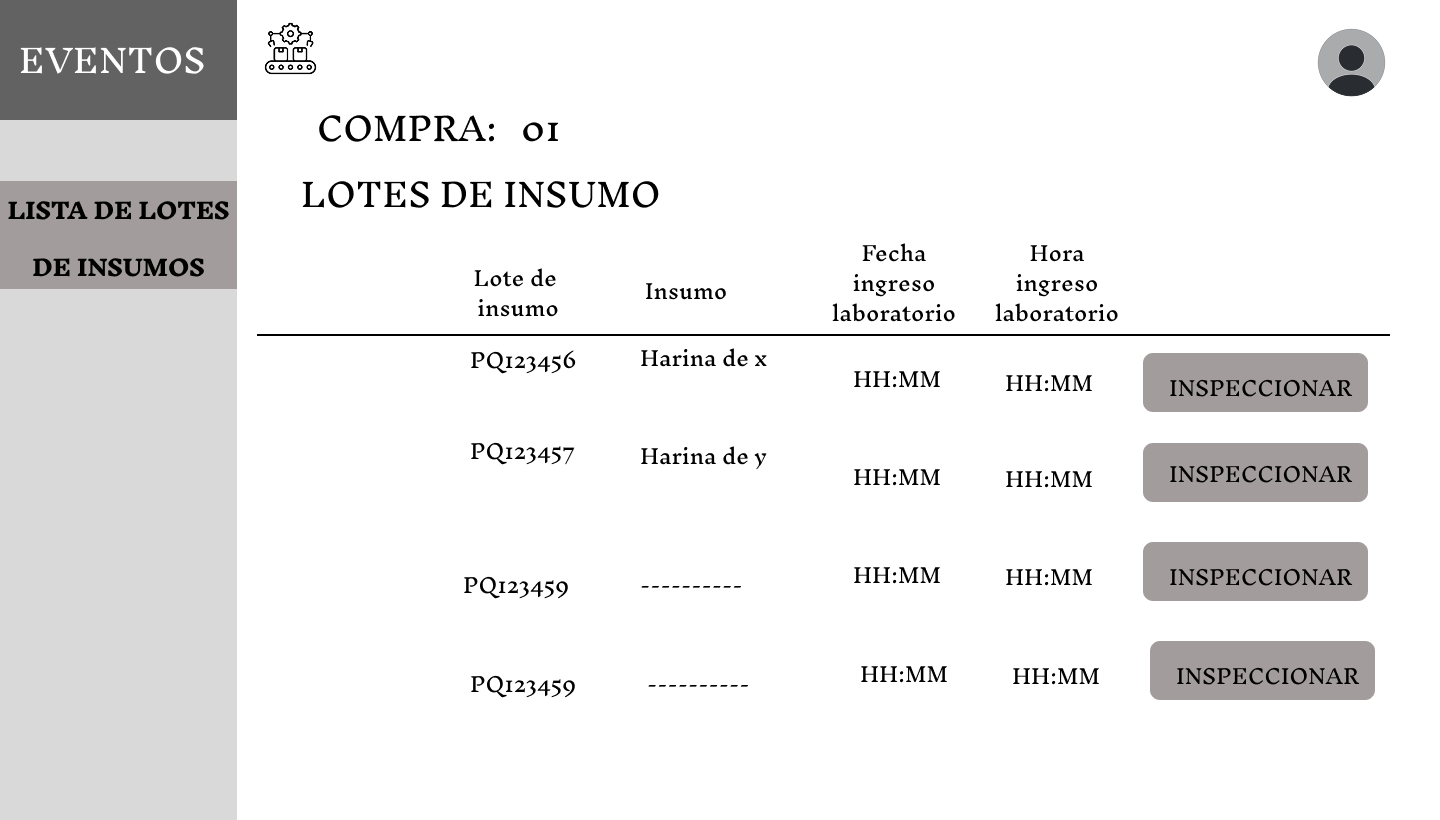
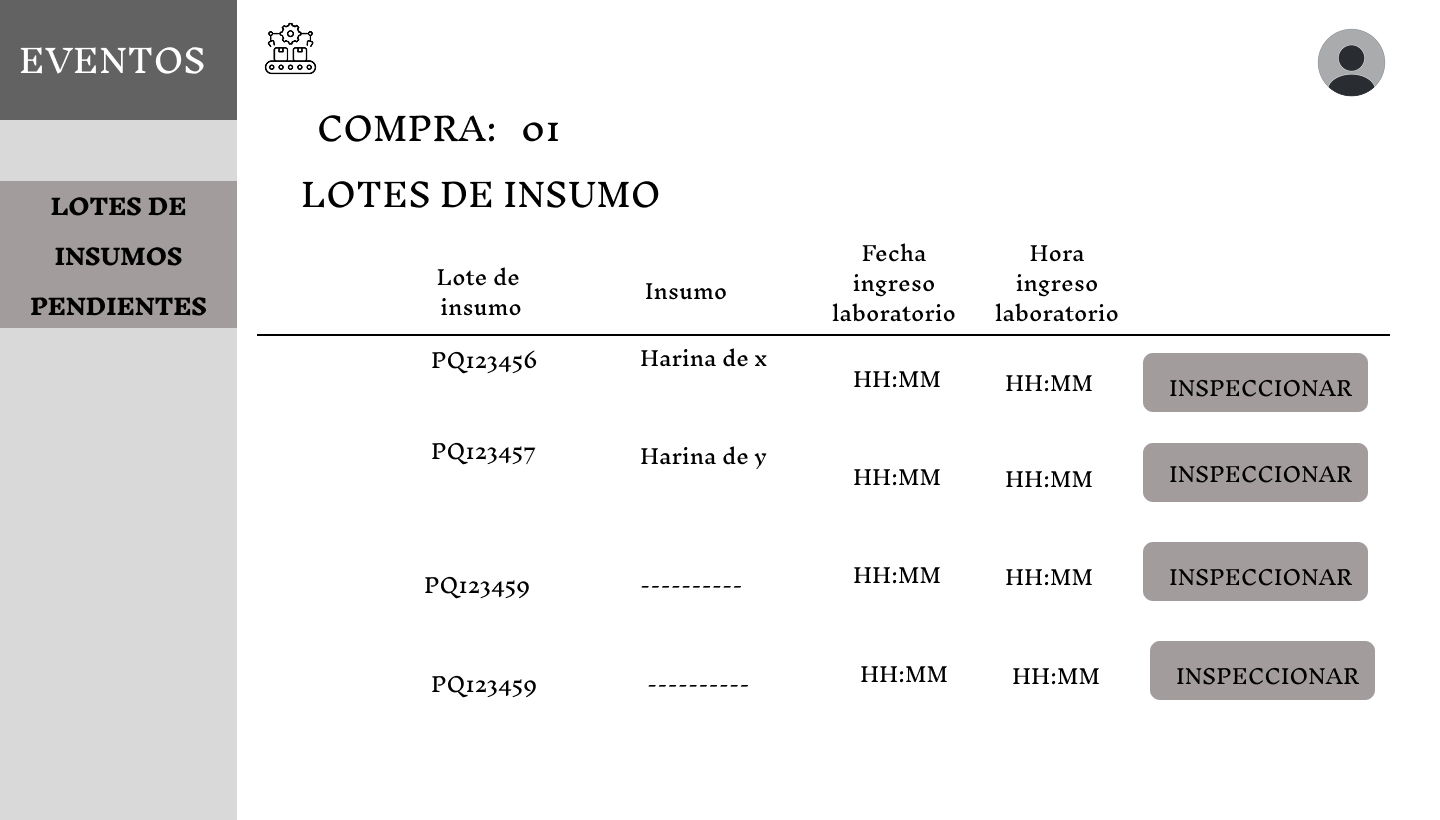
Cambios 2 (Módulo-Calidad)

diff --git a/3/3.3/3.3.md b/3/3.3/3.3.md
@@ -5,7 +5,7 @@
 | **ID**               | CU-01                                                                   |
 |----------------------|-------------------------------------------------------------------------|
 | **Actor(es)**        | Inspector de Calidad                                         |
-| **Descripción**      | Registrar la llegada de un lote de insumo al laboratorio para que pueda ser inspeccionado posteriormente.         |
+| **Descripción**      | Permite registrar el ingreso de un lote de insumo al laboratorio para dar inicio al control de calidad       |
 | **Precondiciones**   | 1. La compra debe estar registrada. <br> 2. El lote debe haber llegado físicamente al laboratorio.        |
 | **Flujo Principal**  | 1. El inspector accede a la pantalla “Lotes Pendientes de Registro en Calidad”. <br> 2. Selecciona el lote de insumo recibido.  <br> 3. Ingresa la Fecha y Hora de ingreso al laboratorio. <br> 4. Confirma el registro.
 | **Requerimientos Especiales** | Los datos de compra deben estar sincronizados con el módulo de compras.    |
@@ -41,27 +41,9 @@
 4. Registrar el resultado: Aprobado o Rechazado, con comentarios y adjuntos.
 5. Confirmar y guardar inspección.
 ![Inspección de Lote de insumo](Prototipos/Inspeccionar_lote_insumo.png)
+6. El sistema actualiza automáticamente el estado del lote (Aprobado/Rechazado) y recalcula el estado de la compra asociada según el total de lotes.
 
-## **Caso de uso #3: Visualizar Lotes Inspeccionados (Revisados)**
-
-| **ID**               | CU-03                                                                   |
-|----------------------|-------------------------------------------------------------------------|
-| **Actor(es)**        | Inspector de Calidad                                       |
-| **Descripción**      | Consultar el estado y detalle de los lotes de insumo ya inspeccionados (revisados).          |
-| **Precondiciones**   | Deben existir inspecciones ya registradas.   |
-| **Flujo Principal**  | 1. Acceder a la pantalla “Lotes Revisados”.  <br> 2. Visualizar tabla con información del lote de insumo inspeccionado  <br> 3. Hacer click en [Ver detalle] para ver información adicional.   |
-| **Requerimientos Especiales** | Ver historial consolidado por compra. |
-| **Frecuencia de Uso**| Cada vez que se desea ver la trazabilidad de los estados del lote de insumo        |
-
-### **Flujo Principal:**
-1. Acceder a la pantalla “Lotes Revisados”.
-2. Visualizar tabla con información del lote de insumo inspeccionado
-3. Hacer click en [Ver detalle] para ver información adicional.
-![Inspección de Lote de insumo](Prototipos/Lista_lotes_insumo_revisados.png)
-
-
-
-## **Caso de uso #4: Inspeccionar Proceso Productivo por Etapa (Mezclado, Moldeado y Secado)**
+## **Caso de uso #3: Inspeccionar Proceso Productivo por Etapa (Mezclado, Moldeado y Secado)**
 
 | **ID**               | CU-03                                                                   |
 |----------------------|-------------------------------------------------------------------------|
@@ -82,7 +64,7 @@
 5. Registrar: ID Inspector, Estado, Tipo de fallo, Cantidad perdida, Comentarios, Adjuntos.
 ![Inspección de Proceso por Lote de Producto](Prototipos/Inspeccionar_proceso_lote_producto.png)
 
-## **Caso de uso #5: Inspeccionar Etapa de Envasado**
+## **Caso de uso #4: Inspeccionar Etapa de Envasado**
 
 | **ID**               | CU-04                                                                   |
 |----------------------|-------------------------------------------------------------------------|
@@ -99,7 +81,7 @@
 3. Confirmar la inspección.
 ![Inspección de Proceso de Envasado](Prototipos/Inspeccionar_envasado.png)
 
-## **Caso de uso #6: Inspeccionar Picking**
+## **Caso de uso #5: Inspeccionar Picking**
 
 | **ID**               | CU-05                                                                   |
 |----------------------|-------------------------------------------------------------------------|
@@ -119,20 +101,32 @@
 5. Si hay defectos, se notifica a picking y se crea nuevo ID_Picking.
 6. Si está correcto, se aprueba para distribución.
 
-## **Caso de uso #7: Consultar Historial de Inspecciones**
+## **Caso de uso #6: Consultar Historial de Inspecciones**
 
 | **ID**               | CU-06                                                                   |
 |----------------------|-------------------------------------------------------------------------|
 | **Actor(es)**        | Inspector de Calidad                                     |
 | **Descripción**      | Permite visualizar y filtrar todas las inspecciones realizadas a lo largo del proceso (insumos, producción, envasado y picking) para fines de trazabilidad, auditoría y control         |
 | **Precondiciones**   | El usuario debe estar autenticado en el sistema. Deben existir registros de inspecciones previas.     |
-| **Flujo Principal**  | 1. El usuario accede a la opción "Historial de Inspecciones".  <br> 2. Selecciona filtros como tipo de inspección, rango de fechas, estado o inspector.  <br> 3. El sistema muestra una tabla con resultados según los filtros aplicados. <br> 4. El usuario puede hacer clic en "Ver Detalle" para acceder a la información completa de una inspección.  |
-| **Requerimientos Especiales** | Identificación de registros duplicados por mismo Código_Picking.   |
-| **Frecuencia de Uso**| Por cada picking pendiente.  |
+| **Flujo Principal**  | 1. El usuario accede a la pantalla "Historial de Inspecciones".  <br> 2. Aplicar filtros por tipo, fecha, estado, inspector.  <br> 3. El sistema muestra la tabla consolidada. <br> 4. Hacer clic en "Ver Detalle" para redirigir a la pantalla específica según el tipo: Insumo → "Lotes de Insumo Revisados" / Proceso → "Procesos Revisados" / Envasado → "Envasado Revisado" / Picking → "Picking Revisado" <br> 5. En la pantalla especializada, el usuario ve una nueva tabla con atributos propios del tipo de inspección.  <br> 6. El usuario puede hacer clic en "Ver Detalle" dentro de esa tabla para abrir una ventana modal, donde visualiza información complementaria como el comentario del inspector y la evidencia adjunta. inspector.  |
+| **Requerimientos Especiales** | Debe integrar datos de 4 entidades de inspección   |
+| **Frecuencia de Uso**| Alta, para auditorías y control interno.  |
 
 ### **Flujo Principal:**
-1. El usuario accede a la opción "Historial de Inspecciones".
-2. Selecciona filtros como tipo de inspección, rango de fechas, estado o inspector.
-3. El sistema muestra una tabla con resultados según los filtros aplicados.
-4. El usuario puede hacer clic en "Ver Detalle" para acceder a la información completa de una inspección.
+1. El usuario accede a la pantalla "Historial de Inspecciones".
+2. Aplicar filtros por tipo, fecha, estado, inspector.
+3. El sistema muestra la tabla consolidada con las inspecciones registradas.
 ![Historial de Inspecciones](Prototipos/historial_inspecciones.png)
+4. Hacer clic en "Ver Detalle" para redirigir a la pantalla específica según el tipo:
+Insumo → "Lotes de Insumo Revisados"
+![Lotes de Insumo Revisados](Prototipos/Lista_lotes_insumo_revisados.png)
+Proceso → "Procesos Revisados"
+![Procesos Revisados](Prototipos/Lista_procesos_revisados.png)
+Envasado → "Envasado Revisado"
+![Envasados Revisados](Prototipos/Lista_envasados_revisados.png)
+Picking → "Picking Revisado"
+![Pickings Revisados](Prototipos/Lista_pickings_revisados.png)
+5. En la pantalla especializada, el usuario ve una nueva tabla con atributos propios del tipo de inspección.
+6. El usuario puede hacer clic en "Ver Detalle" dentro de esa tabla para abrir una ventana modal, donde visualiza información complementaria como el comentario del inspector y la evidencia adjunta.
+![Ver detalle - Revisados](Prototipos/Ver_detalle_revisados.png)
+![Evidencia - Revisados](Prototipos/Evidencia_revisados.png)
